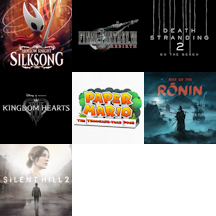
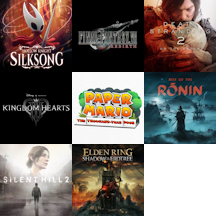
Add Elden Ring DLC to release radar

Changed region(s): [[0.3333, 0.6667, 0.6667, 1.0], [0.6667, 0.0, 1.0, 0.3333]]

diff --git a/_includes/sidebar.html b/_includes/sidebar.html
@@ -26,7 +26,7 @@
     <div class="widget-title">Release Radar</div>
     <div class="widget-content widget-releaseradar">
         <style type="text/css">
-            div.rrdiv{margin-bottom:12px;margin-left:-12px}div.rrdiv>img{margin-left:12px;width:72px;height:72px}img#silksong{background:url(/resources/png/nmn8uQRPqx4FOopD/release-radar.png) 0px 0px}img#ttyd{background:url(/resources/png/nmn8uQRPqx4FOopD/release-radar.png) -72px -72px}img#ff7rebirth{background:url(/resources/png/nmn8uQRPqx4FOopD/release-radar.png) -72px 0px}img#ds2{background:url(/resources/png/nmn8uQRPqx4FOopD/release-radar.png) -144px 0px}img#kh4{background:url(/resources/png/nmn8uQRPqx4FOopD/release-radar.png) 0px -72px}img#ronin{background:url(/resources/png/nmn8uQRPqx4FOopD/release-radar.png) -144px -72px}img#sh2{background:url(/resources/png/nmn8uQRPqx4FOopD/release-radar.png) 0px -144px}img#smrpg{background:url(/resources/png/nmn8uQRPqx4FOopD/release-radar.png) -72px -144px}
+            div.rrdiv{margin-bottom:12px;margin-left:-12px}div.rrdiv>img{margin-left:12px;width:72px;height:72px}img#silksong{background:url(/resources/png/nmn8uQRPqx4FOopD/release-radar.png) 0px 0px}img#ttyd{background:url(/resources/png/nmn8uQRPqx4FOopD/release-radar.png) -72px -72px}img#ff7rebirth{background:url(/resources/png/nmn8uQRPqx4FOopD/release-radar.png) -72px 0px}img#ds2{background:url(/resources/png/nmn8uQRPqx4FOopD/release-radar.png) -144px 0px}img#kh4{background:url(/resources/png/nmn8uQRPqx4FOopD/release-radar.png) 0px -72px}img#ronin{background:url(/resources/png/nmn8uQRPqx4FOopD/release-radar.png) -144px -72px}img#sh2{background:url(/resources/png/nmn8uQRPqx4FOopD/release-radar.png) 0px -144px}img#sote{background:url(/resources/png/nmn8uQRPqx4FOopD/release-radar.png) -72px -144px}
         </style>
         <div class="flex rrdiv">
             <img src="/resources/png/B1cZjrwAuuPI9Cyd/blank.png" id="silksong" title="Hollow Knight: Silksong">
@@ -38,6 +38,7 @@
             <img src="/resources/png/B1cZjrwAuuPI9Cyd/blank.png" id="ronin" title="Rise of the Ronin">
             <img src="/resources/png/B1cZjrwAuuPI9Cyd/blank.png" id="sh2" title="Silent Hill 2 Remake">
             <img src="/resources/png/B1cZjrwAuuPI9Cyd/blank.png" id="ff7rebirth" title="Final Fantasy VII: Rebirth">
+            <img src="/resources/png/B1cZjrwAuuPI9Cyd/blank.png" id="sote" title="Elden Ring: Shadow of the Erdtree DLC">
         </div>
         <p><a href="/records/games">View all played games</a></p>
     </div>
